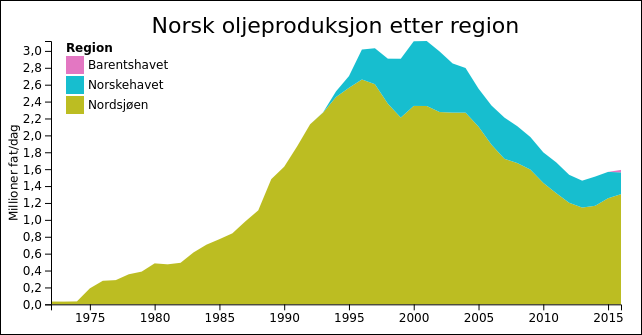
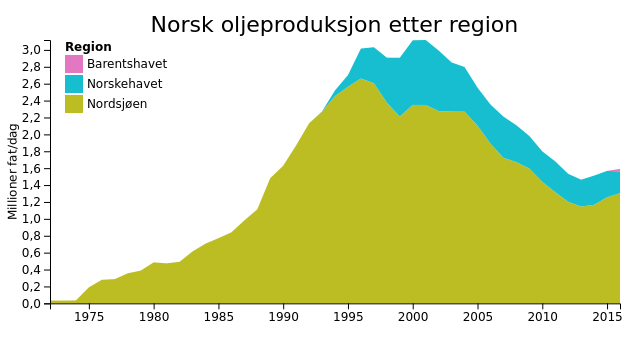
Remove border closes #20

diff --git a/vis/style.css b/vis/style.css
@@ -12,5 +12,5 @@ text {
 }
 
 svg {
-    border: 1px solid #000;
+    border: 0;
 }
